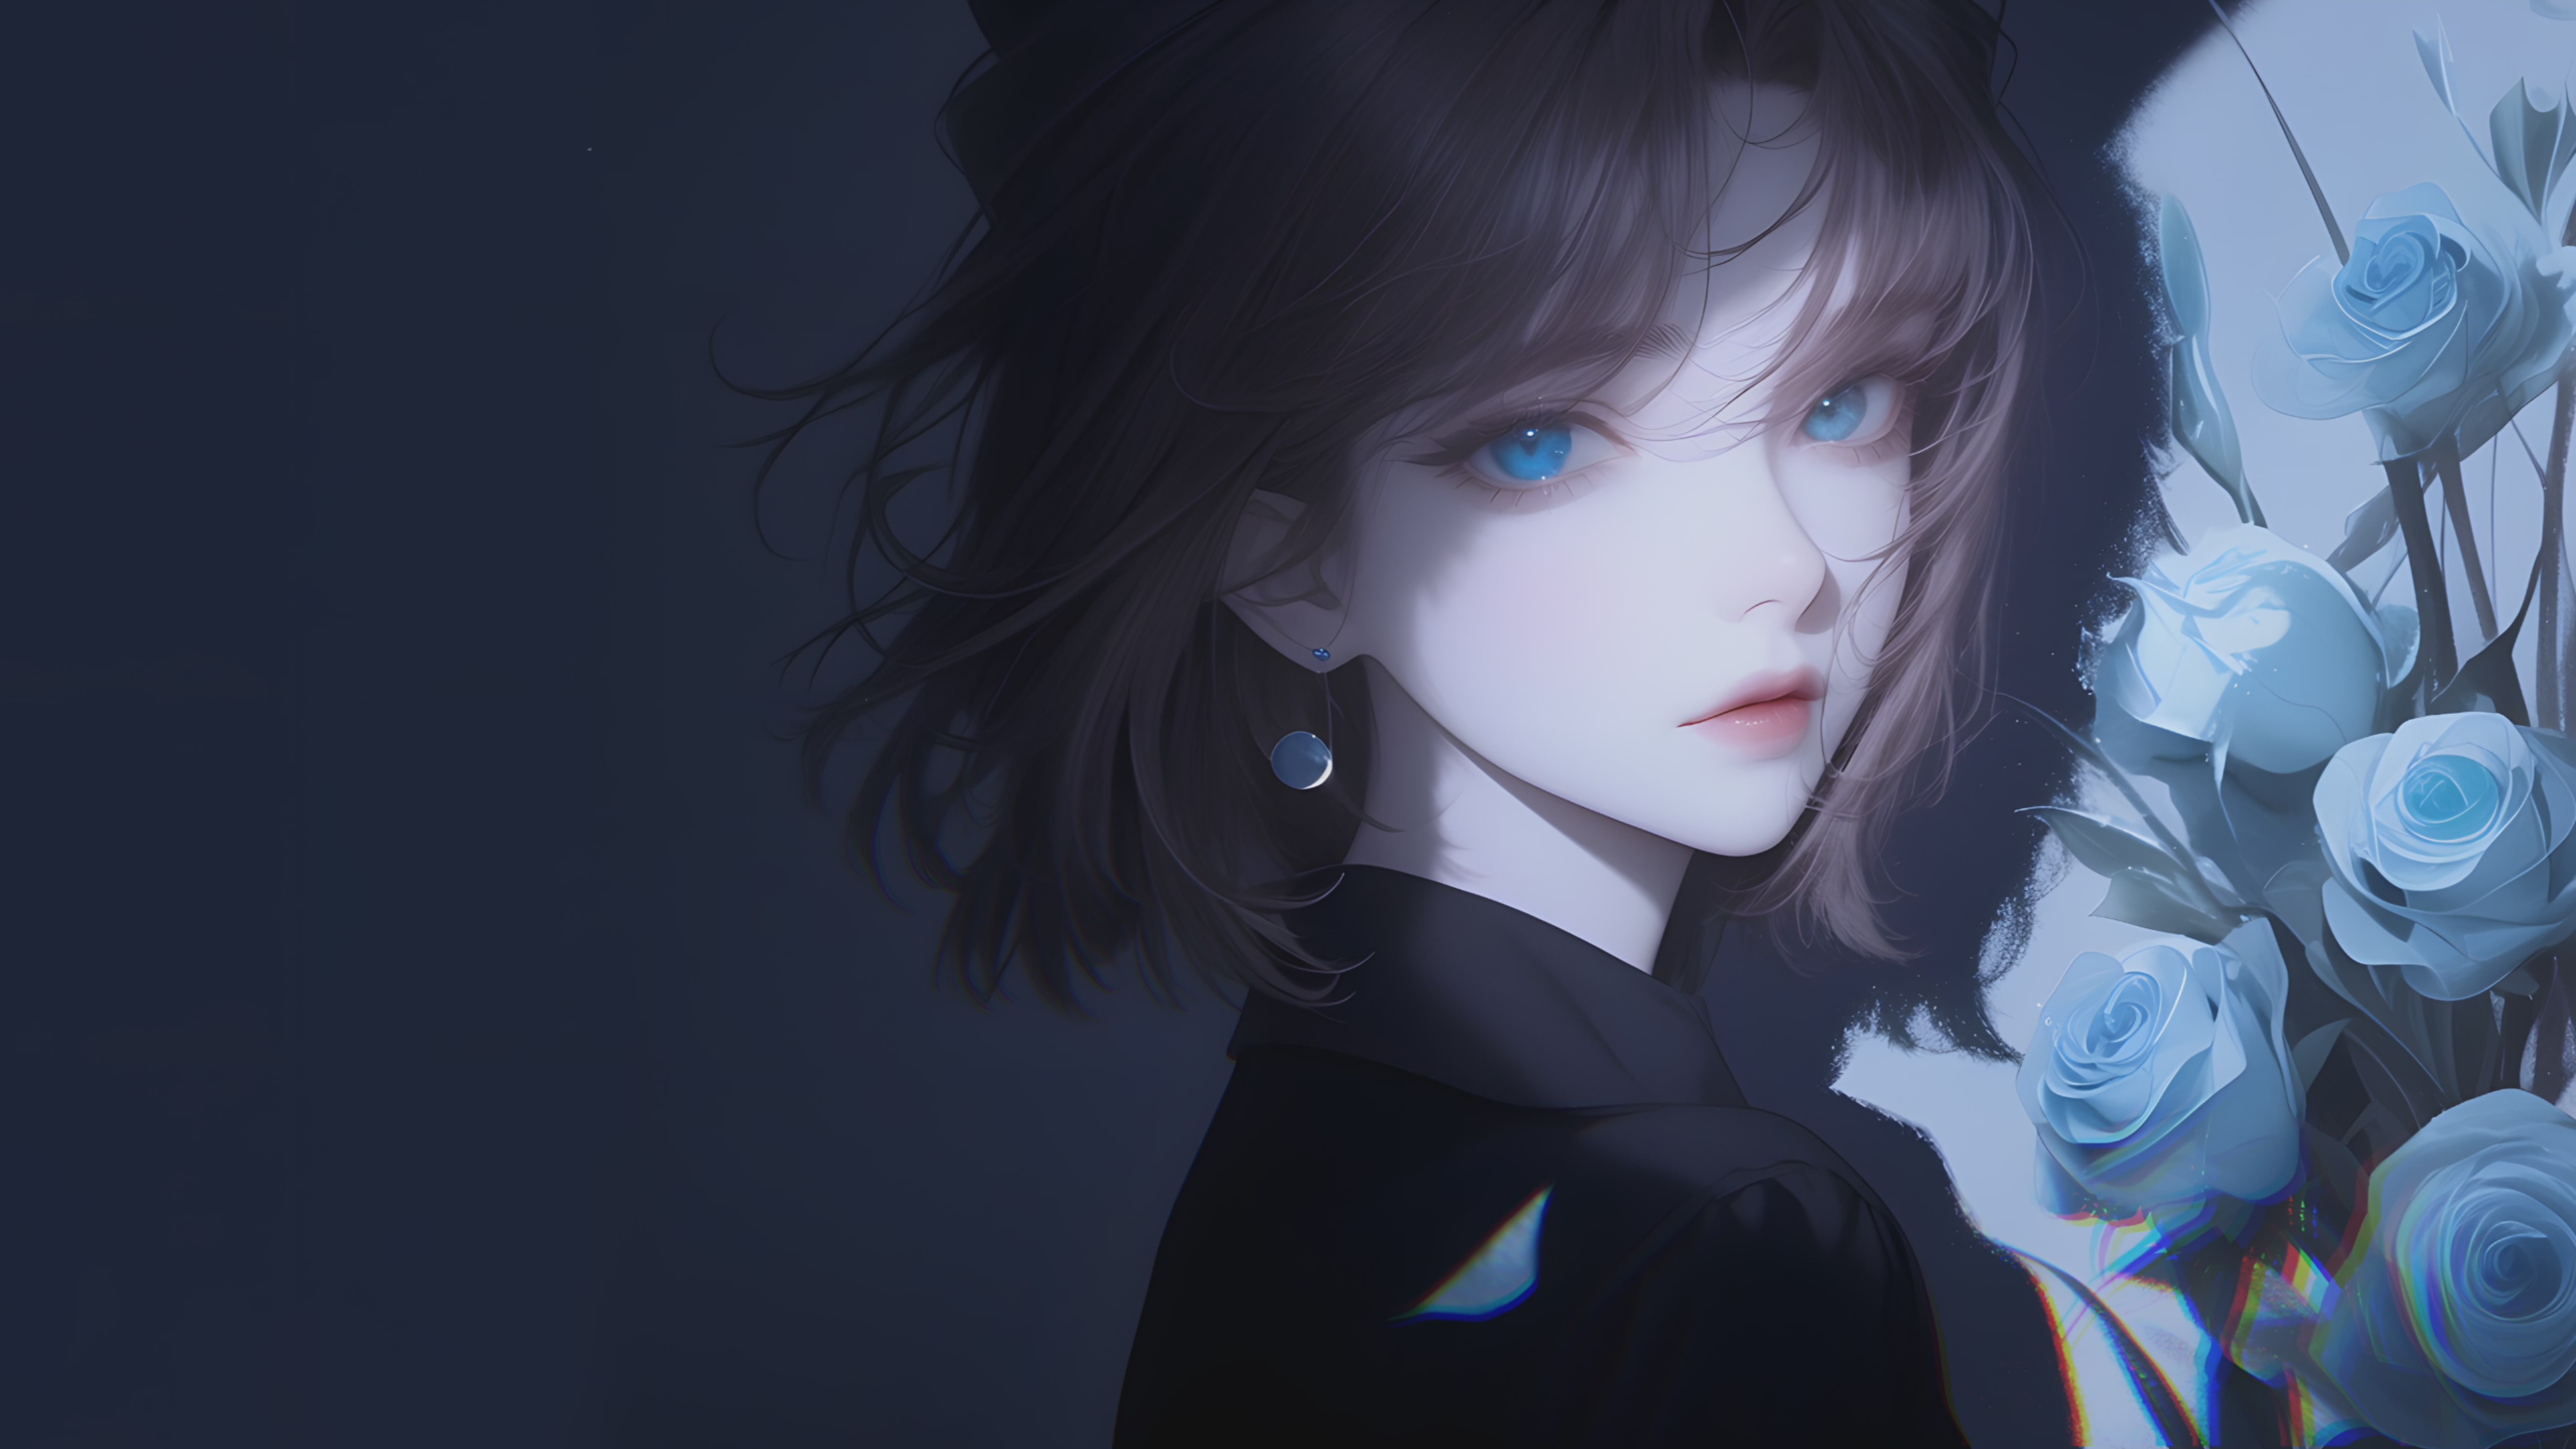
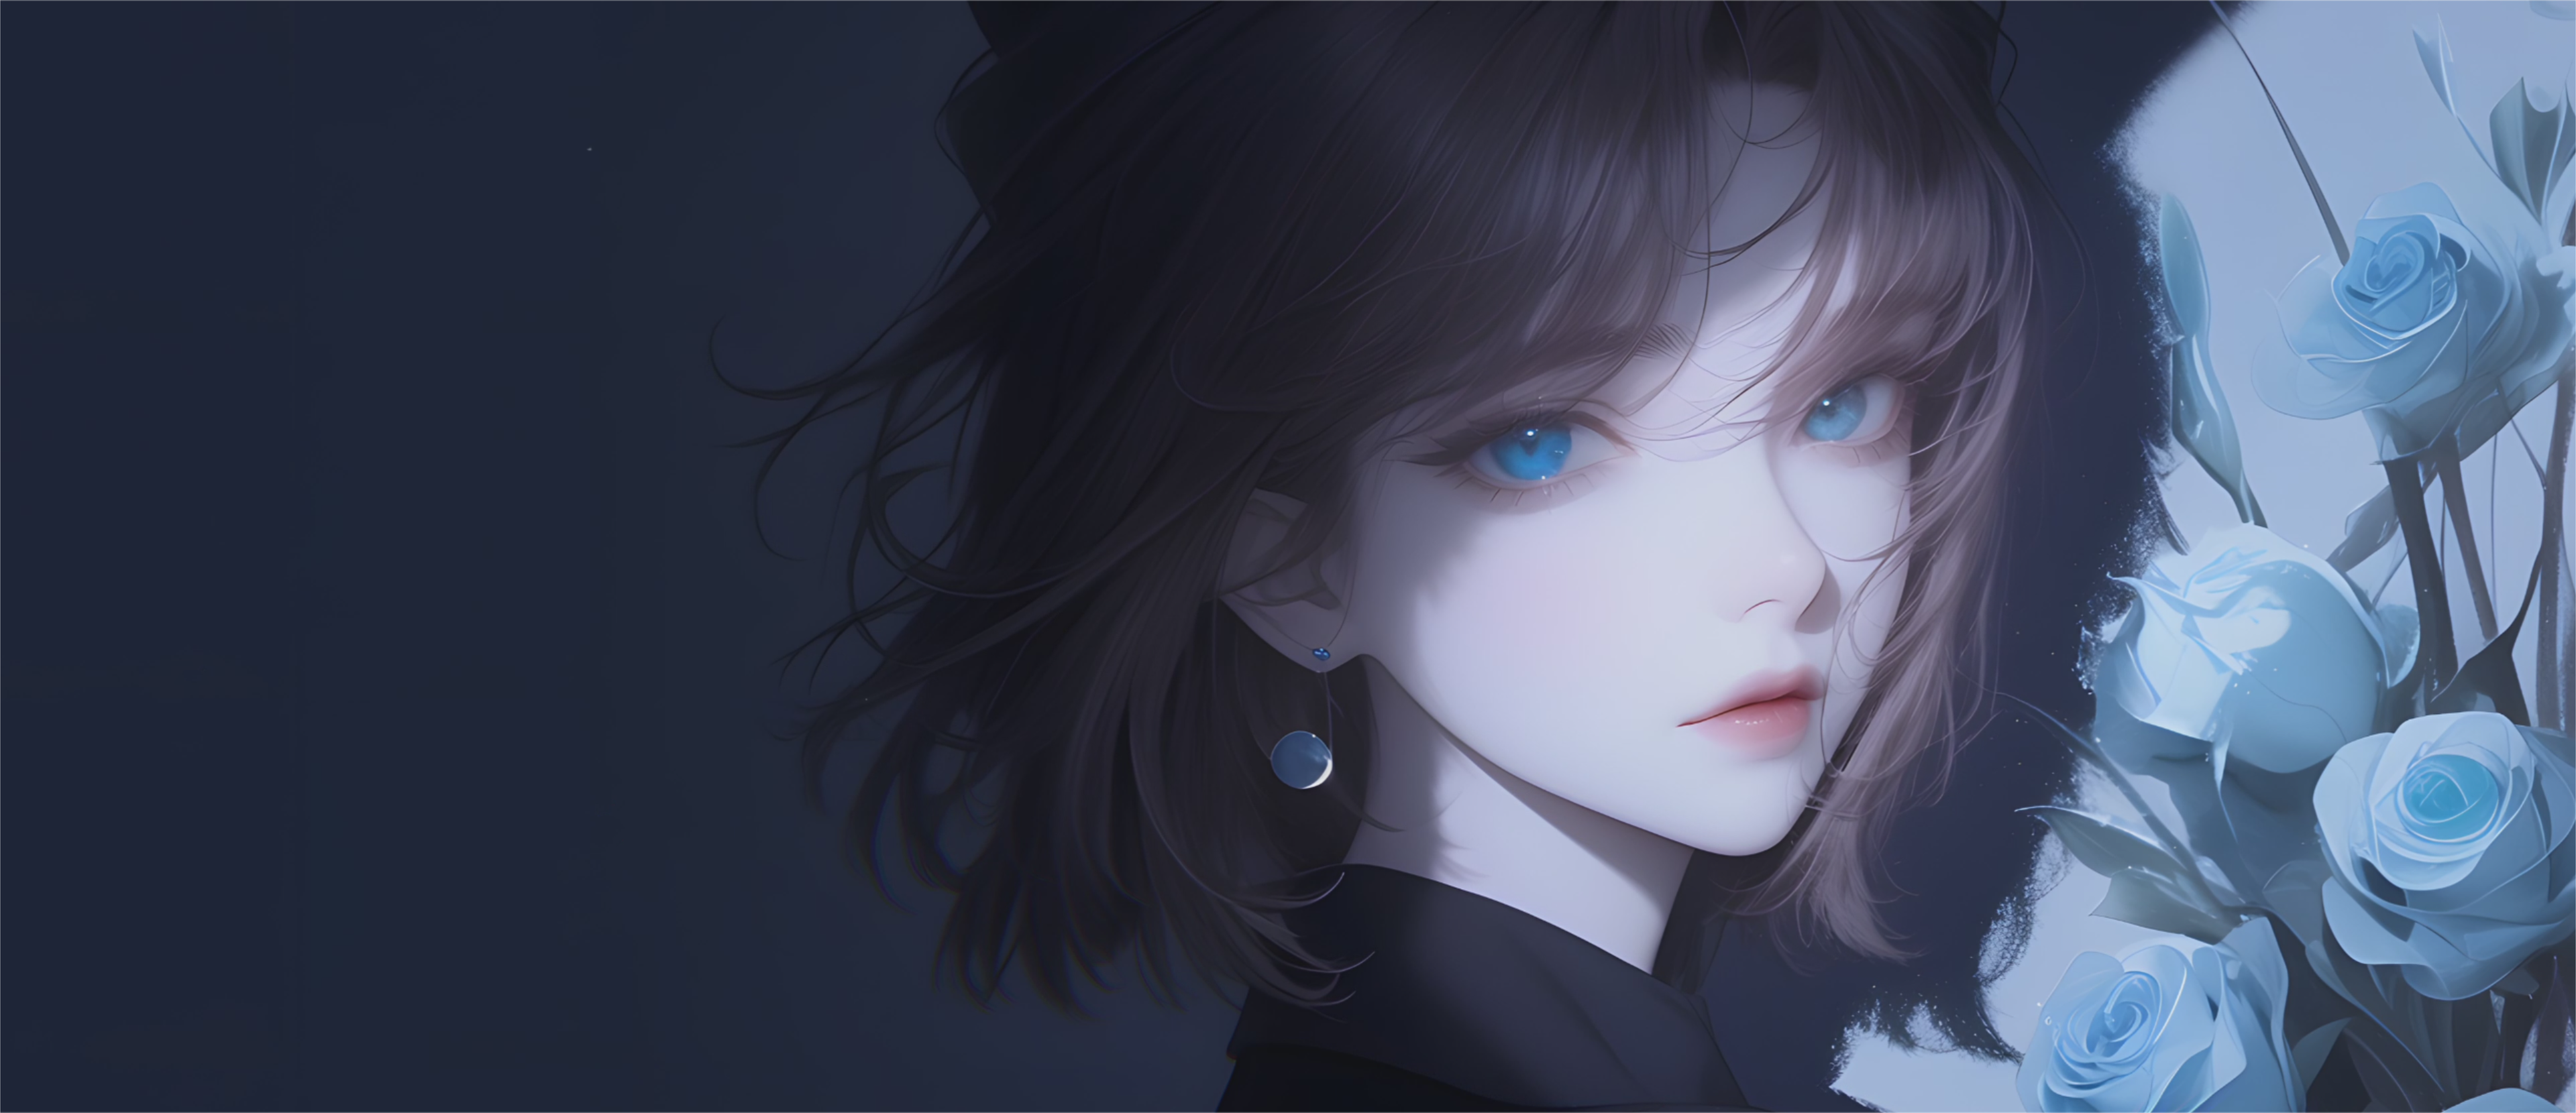
bg

diff --git a/about.html b/about.html
@@ -2,7 +2,7 @@
 layout: page
 title: "About"
 description: "「What's past is prologue.」"
-header-img: "img/bg5.jpg"
+header-img: "img/homebg.png"
 header-mask: 0.5
 multilingual: true
 ---
